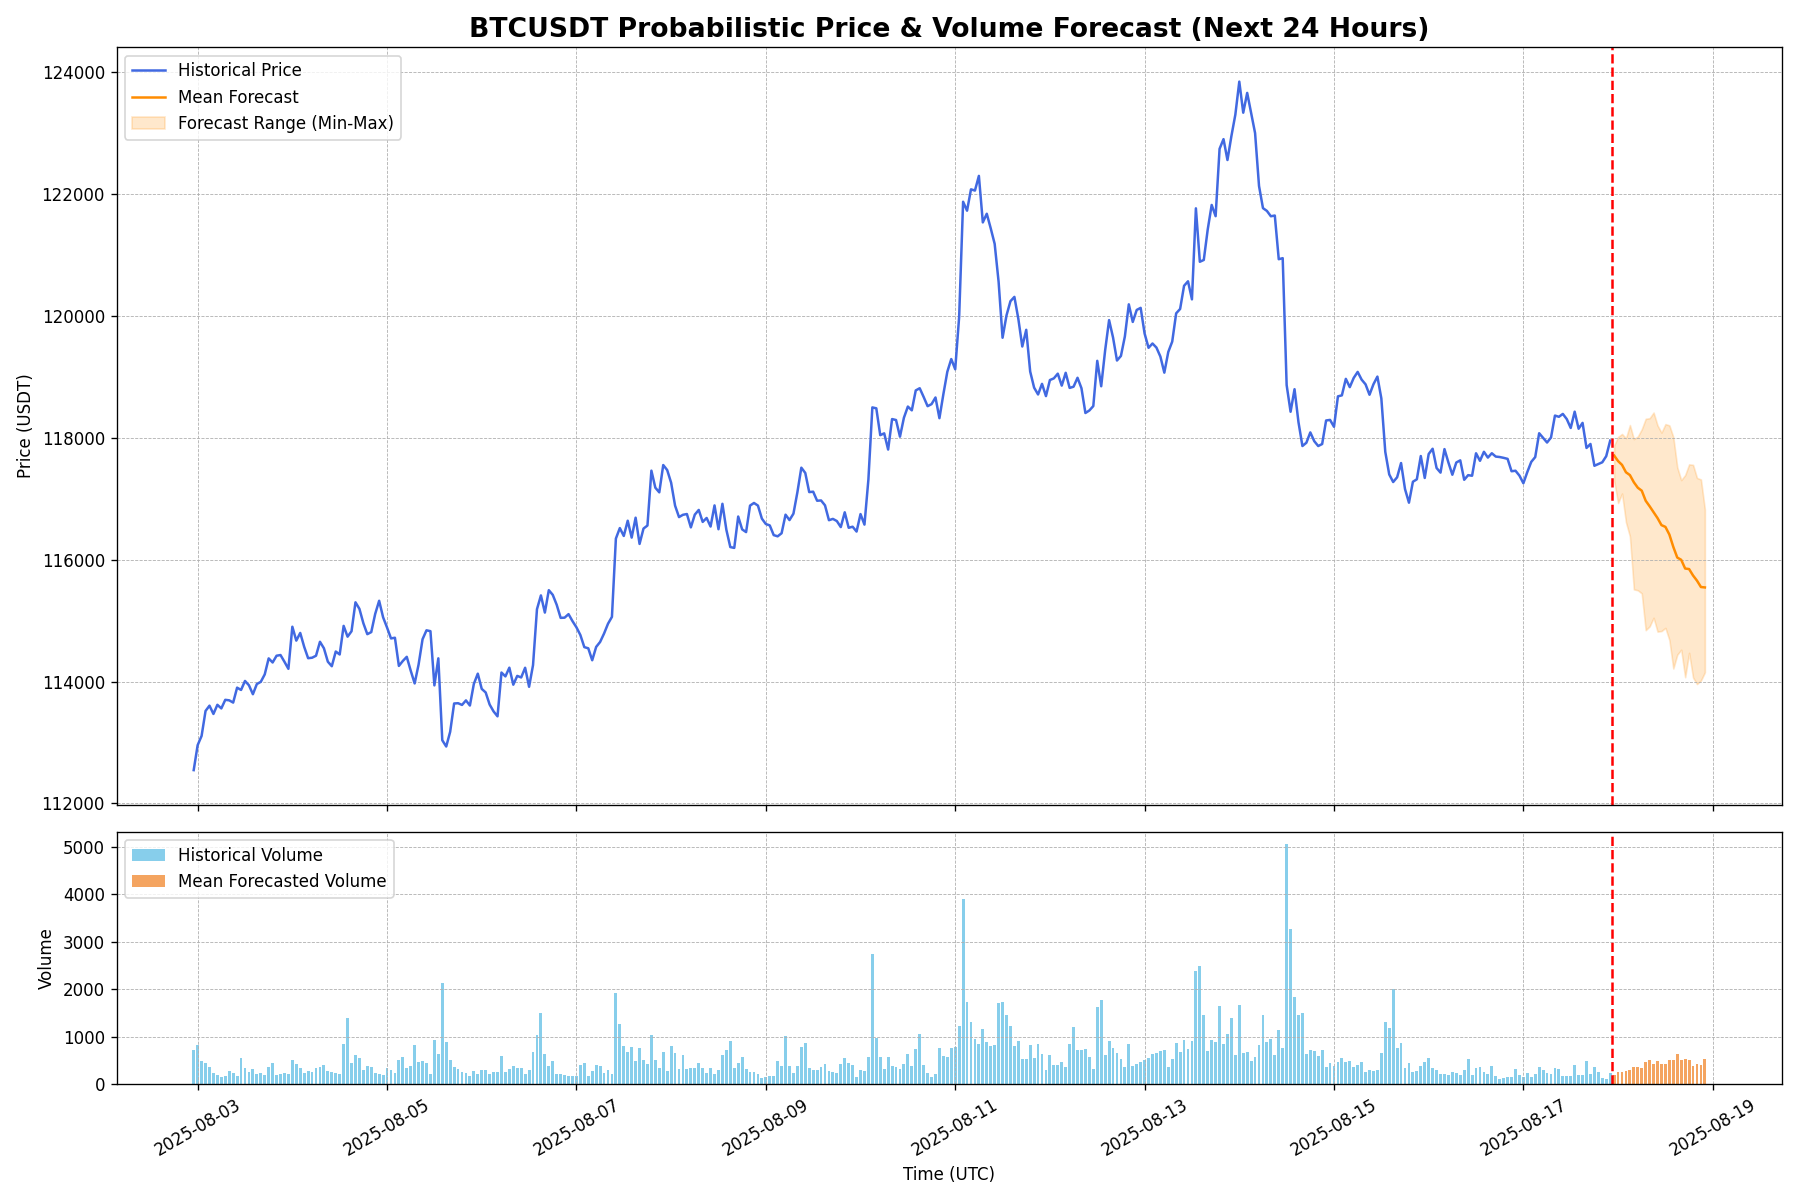
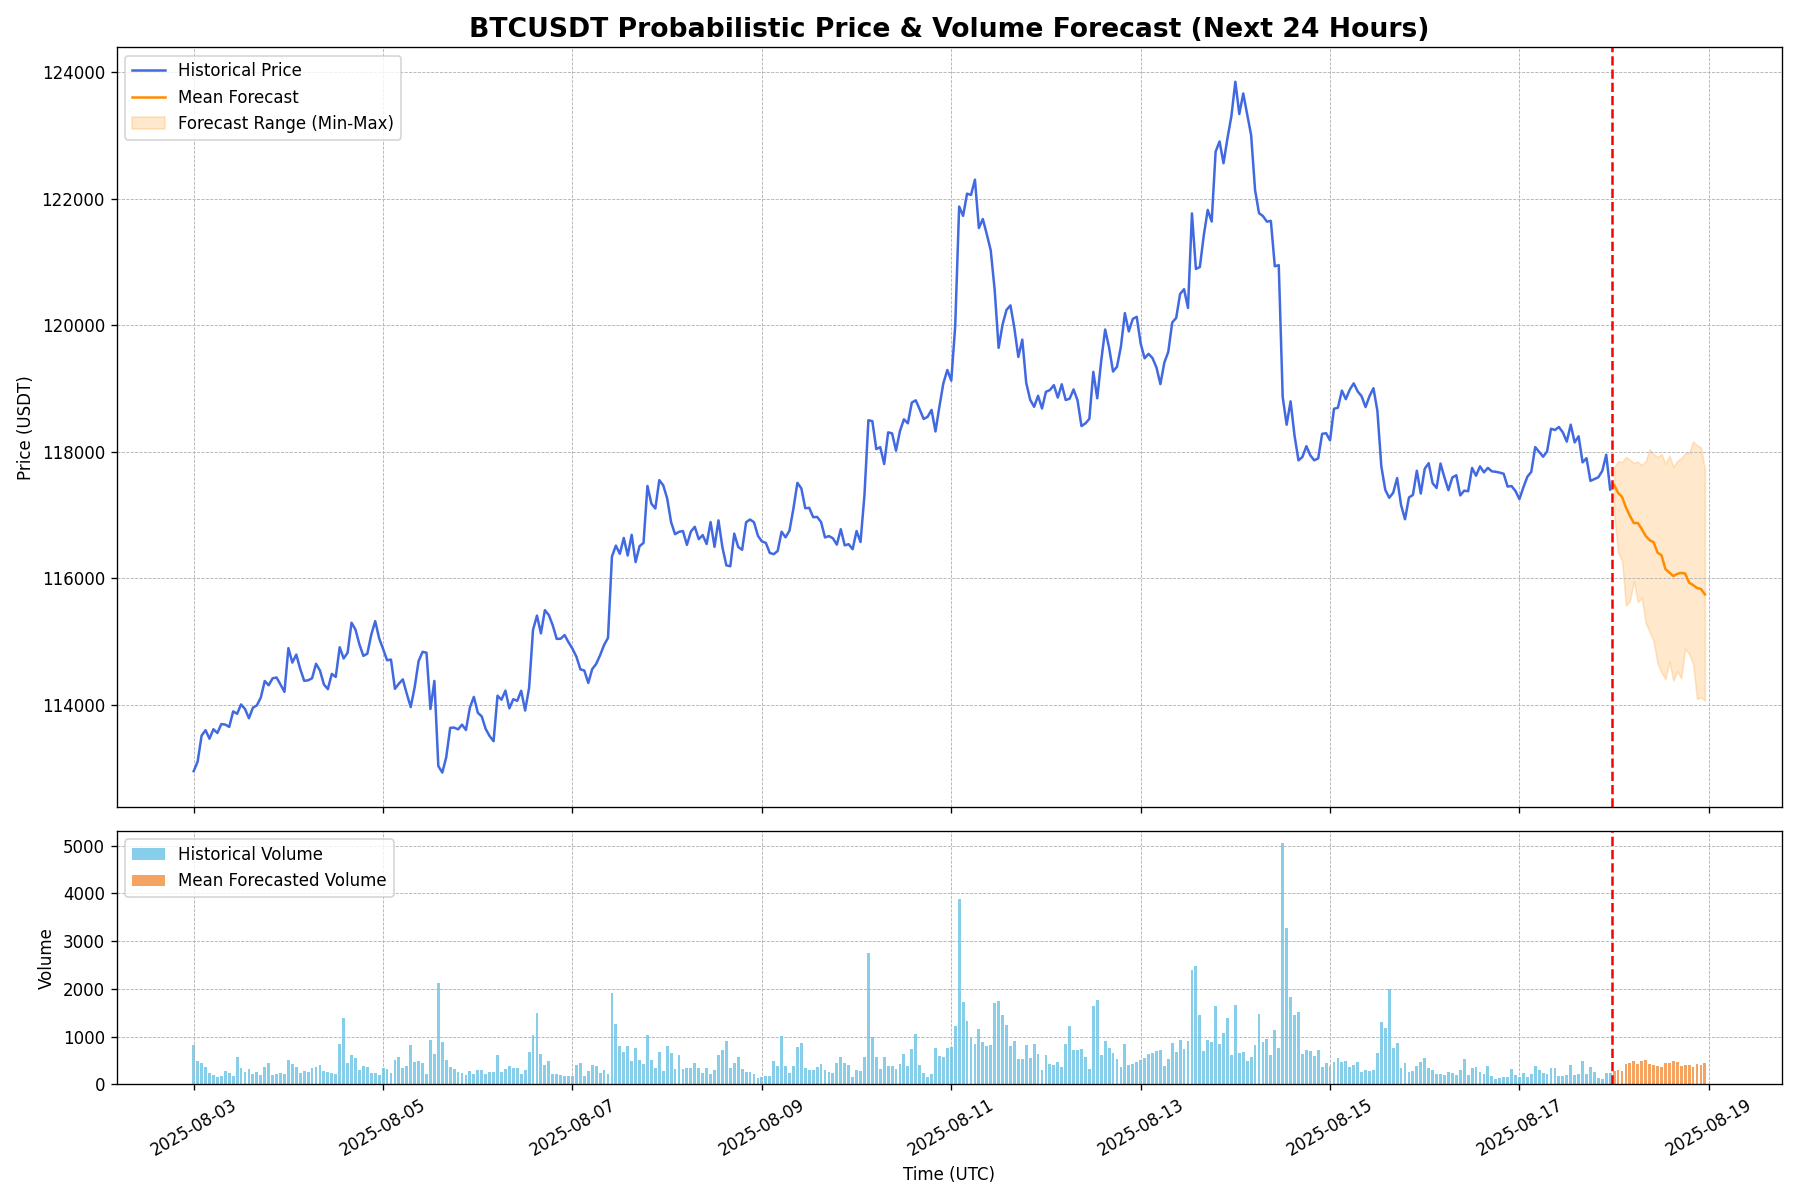
Auto-update forecast for 2025-08-18 00:03 UTC

diff --git a/index.html b/index.html
@@ -22,19 +22,19 @@
         <section id="live-dashboard">
             <h2>Live BTC/USDT Forecast Dashboard</h2>
             <div class="metadata">
-                <span>Last Updated (UTC): <strong id="update-time">2025-08-17 23:03:05</strong></span>
+                <span>Last Updated (UTC): <strong id="update-time">2025-08-18 00:03:06</strong></span>
                 <span>Data Source: Binance | Interval: 1-Hour</span>
             </div>
 
             <div class="metrics-container">
                 <div class="metric-card">
                     <h3>Upside Probability (Next 24h)</h3>
-                    <p class="metric-value" id="upside-prob">0.0%</p>
+                    <p class="metric-value" id="upside-prob">3.3%</p>
                     <div class="metric-desc">The model's confidence that the price in 24 hours will be higher than the last known price.</div>
                 </div>
                 <div class="metric-card">
                     <h3>Volatility Amplification (Next 24h)</h3>
-                    <p class="metric-value" id="vol-amp-prob">90.0%</p>
+                    <p class="metric-value" id="vol-amp-prob">86.7%</p>
                     <div class="metric-desc">The probability that predicted volatility over the next 24h will exceed recent historical volatility.</div>
                 </div>
             </div>
